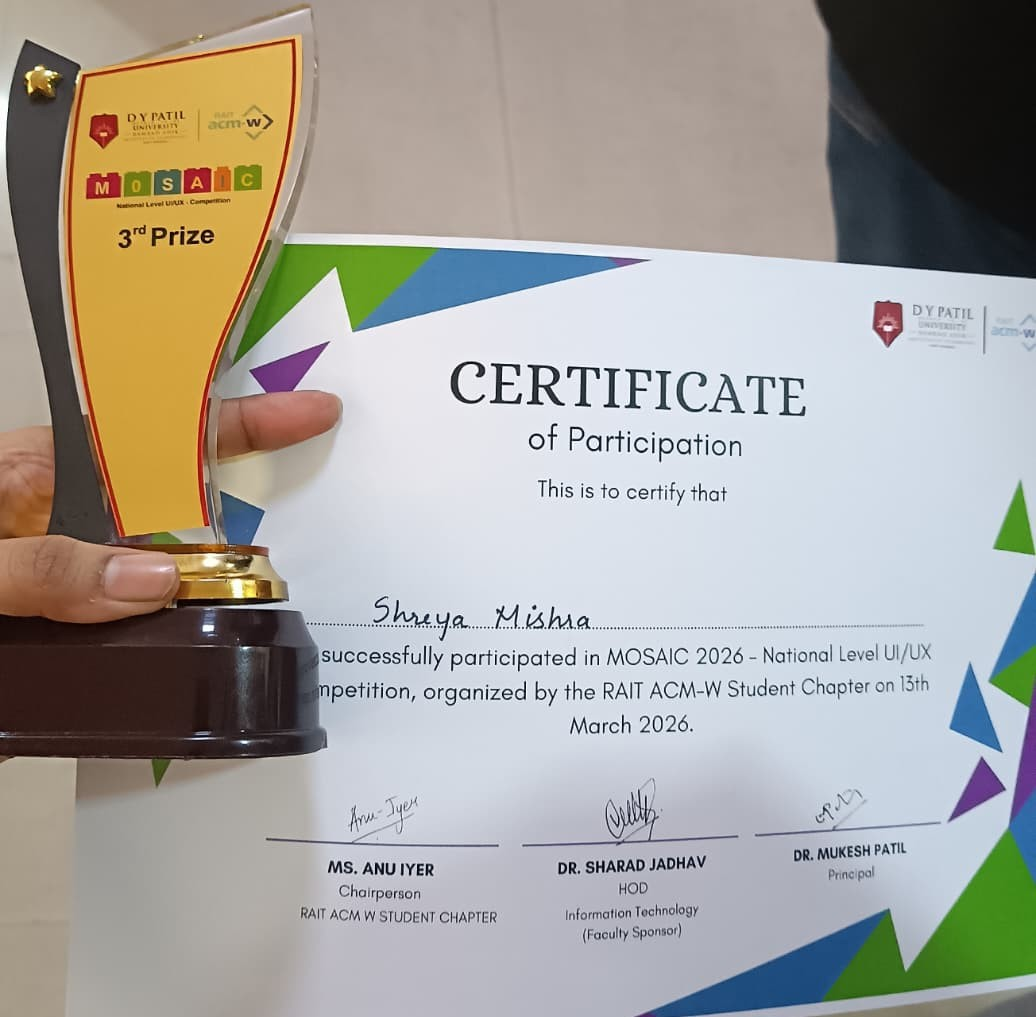
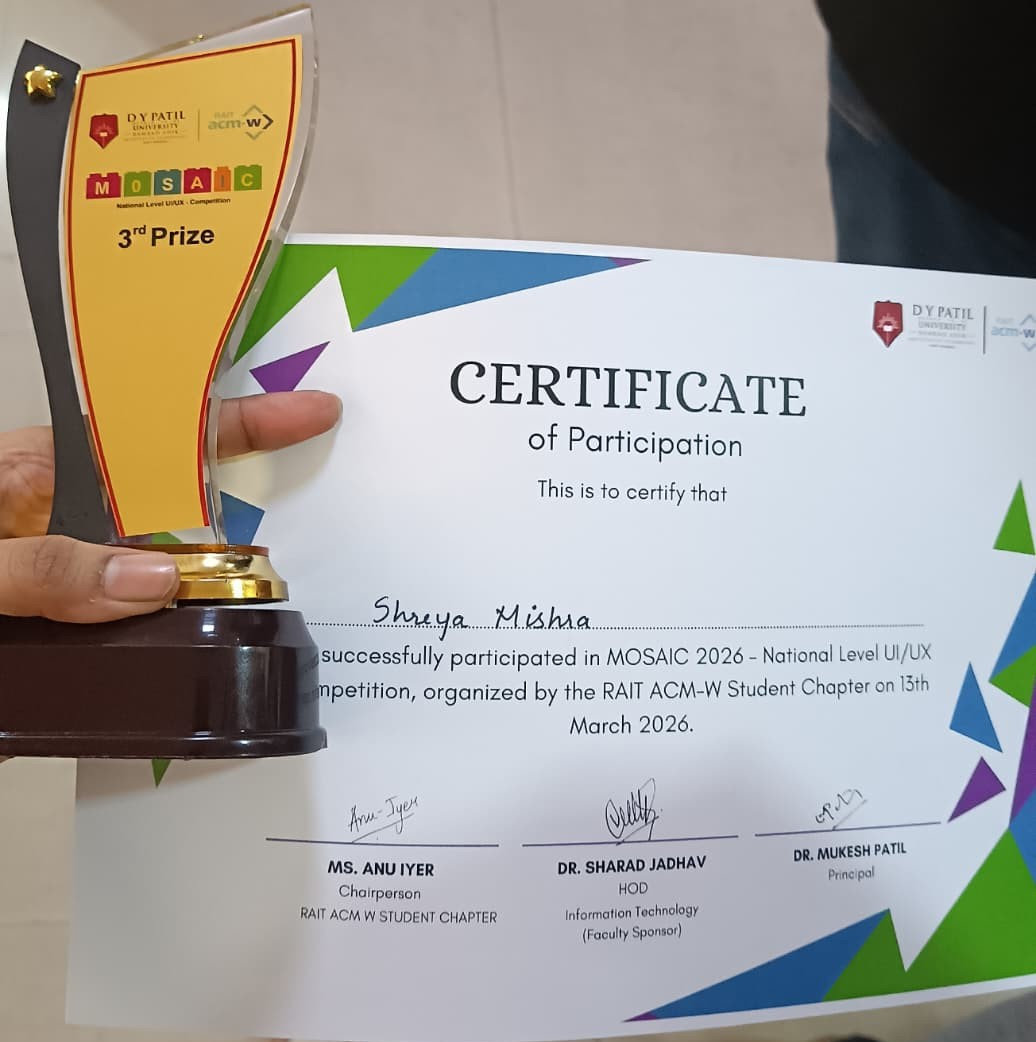
pic new

diff --git a/src/App.jsx b/src/App.jsx
@@ -128,8 +128,14 @@ const EXPERIENCE = [
 ];
 
 const ACHIEVEMENTS = [
-  "2nd Place — CODEISSANCE 2026 (24-Hour Hackathon)",
-  "3rd Place — MOSAIC National Level UI/UX Hackathon, RAIT D.Y. Patil"
+  {
+    title: "2nd Place — CODEISSANCE 2026 (24-Hour Hackathon)",
+    images: ["/3.jpeg", "/4.jpeg"],
+  },
+  {
+    title: "3rd Place — MOSAIC National Level UI/UX Hackathon, RAIT D.Y. Patil",
+    images: ["/1.jpeg", "/2.jpeg"],
+  },
 ];
 
 const LEARNING_TRACKS = [
@@ -183,6 +189,257 @@ function useTypewriter(words, speed = 80, pause = 1800) {
   }, [charIdx, deleting, wordIdx, words, speed, pause]);
 
   return display;
+}
+
+// ─── Achievement Card with Photo Slider ───────────────────────────────────────
+function AchievementCard({ item }) {
+  const [currentIdx, setCurrentIdx] = useState(0);
+  const [touchStartX, setTouchStartX] = useState(null);
+
+  const images = item.images || [];
+
+  const nextImage = (e) => {
+    if (e) e.stopPropagation();
+    if (images.length > 0) {
+      setCurrentIdx((prev) => (prev + 1) % images.length);
+    }
+  };
+
+  const prevImage = (e) => {
+    if (e) e.stopPropagation();
+    if (images.length > 0) {
+      setCurrentIdx((prev) => (prev - 1 + images.length) % images.length);
+    }
+  };
+
+  const handleTouchStart = (e) => {
+    setTouchStartX(e.touches[0].clientX);
+  };
+
+  const handleTouchEnd = (e) => {
+    if (touchStartX === null) return;
+    const touchEndX = e.changedTouches[0].clientX;
+    const diff = touchStartX - touchEndX;
+    if (diff > 35) {
+      nextImage();
+    } else if (diff < -35) {
+      prevImage();
+    }
+    setTouchStartX(null);
+  };
+
+  return (
+    <div
+      className="peach-card"
+      style={{
+        display: "flex",
+        flexDirection: "column",
+        gap: 16,
+        padding: "24px 24px 20px",
+        borderRadius: 20,
+      }}
+    >
+      <div style={{ display: "flex", alignItems: "flex-start", gap: 14 }}>
+        <div
+          style={{
+            width: 8,
+            height: 8,
+            borderRadius: "50%",
+            background: "#ff729f",
+            flexShrink: 0,
+            marginTop: 7,
+            boxShadow: "0 0 10px #ff729f",
+          }}
+        />
+        <p
+          style={{
+            fontSize: 15,
+            color: "#f1f5f9",
+            lineHeight: 1.6,
+            margin: 0,
+            fontWeight: 600,
+            textShadow: "0 1px 6px rgba(0,0,0,0.9)",
+          }}
+        >
+          {item.title}
+        </p>
+      </div>
+
+      {images.length > 0 && (
+        <div
+          onClick={nextImage}
+          onTouchStart={handleTouchStart}
+          onTouchEnd={handleTouchEnd}
+          title="Click to view next photo"
+          style={{
+            position: "relative",
+            width: "100%",
+            height: 240,
+            borderRadius: 14,
+            overflow: "hidden",
+            background: "rgba(3, 13, 27, 0.7)",
+            border: "1px solid rgba(255, 255, 255, 0.16)",
+            cursor: "pointer",
+            userSelect: "none",
+            display: "flex",
+            alignItems: "center",
+            justifyContent: "center",
+          }}
+        >
+          <img
+            key={currentIdx}
+            src={images[currentIdx]}
+            alt={`${item.title} photo ${currentIdx + 1}`}
+            style={{
+              width: "100%",
+              height: "100%",
+              objectFit: "contain",
+              transition: "transform 0.3s ease",
+            }}
+          />
+
+          {images.length > 1 && (
+            <>
+              {/* Prev Button */}
+              <button
+                type="button"
+                onClick={prevImage}
+                title="Previous photo"
+                aria-label="Previous photo"
+                style={{
+                  position: "absolute",
+                  left: 8,
+                  top: "50%",
+                  transform: "translateY(-50%)",
+                  width: 32,
+                  height: 32,
+                  borderRadius: "50%",
+                  background: "rgba(6, 24, 46, 0.8)",
+                  border: "1px solid rgba(255, 255, 255, 0.25)",
+                  color: "#ffffff",
+                  display: "flex",
+                  alignItems: "center",
+                  justifyContent: "center",
+                  fontSize: 16,
+                  cursor: "pointer",
+                  backdropFilter: "blur(6px)",
+                  zIndex: 2,
+                  transition: "all 0.2s",
+                }}
+                onMouseOver={(e) => {
+                  e.currentTarget.style.background = "#ff729f";
+                  e.currentTarget.style.borderColor = "#ff729f";
+                }}
+                onMouseOut={(e) => {
+                  e.currentTarget.style.background = "rgba(6, 24, 46, 0.8)";
+                  e.currentTarget.style.borderColor = "rgba(255, 255, 255, 0.25)";
+                }}
+              >
+                ‹
+              </button>
+
+              {/* Next Button */}
+              <button
+                type="button"
+                onClick={nextImage}
+                title="Next photo"
+                aria-label="Next photo"
+                style={{
+                  position: "absolute",
+                  right: 8,
+                  top: "50%",
+                  transform: "translateY(-50%)",
+                  width: 32,
+                  height: 32,
+                  borderRadius: "50%",
+                  background: "rgba(6, 24, 46, 0.8)",
+                  border: "1px solid rgba(255, 255, 255, 0.25)",
+                  color: "#ffffff",
+                  display: "flex",
+                  alignItems: "center",
+                  justifyContent: "center",
+                  fontSize: 16,
+                  cursor: "pointer",
+                  backdropFilter: "blur(6px)",
+                  zIndex: 2,
+                  transition: "all 0.2s",
+                }}
+                onMouseOver={(e) => {
+                  e.currentTarget.style.background = "#ff729f";
+                  e.currentTarget.style.borderColor = "#ff729f";
+                }}
+                onMouseOut={(e) => {
+                  e.currentTarget.style.background = "rgba(6, 24, 46, 0.8)";
+                  e.currentTarget.style.borderColor = "rgba(255, 255, 255, 0.25)";
+                }}
+              >
+                ›
+              </button>
+
+              {/* Indicator Dots */}
+              <div
+                style={{
+                  position: "absolute",
+                  bottom: 10,
+                  left: "50%",
+                  transform: "translateX(-50%)",
+                  display: "flex",
+                  alignItems: "center",
+                  gap: 6,
+                  padding: "4px 10px",
+                  borderRadius: 99,
+                  background: "rgba(2, 11, 22, 0.75)",
+                  border: "1px solid rgba(255, 255, 255, 0.18)",
+                  backdropFilter: "blur(6px)",
+                  zIndex: 2,
+                }}
+              >
+                {images.map((_, idx) => (
+                  <div
+                    key={idx}
+                    onClick={(e) => {
+                      e.stopPropagation();
+                      setCurrentIdx(idx);
+                    }}
+                    style={{
+                      width: currentIdx === idx ? 16 : 6,
+                      height: 6,
+                      borderRadius: 99,
+                      background: currentIdx === idx ? "#ff729f" : "rgba(255, 255, 255, 0.4)",
+                      boxShadow: currentIdx === idx ? "0 0 8px #ff729f" : "none",
+                      transition: "all 0.25s ease",
+                      cursor: "pointer",
+                    }}
+                  />
+                ))}
+              </div>
+
+              {/* Tag indicator badge */}
+              <div
+                style={{
+                  position: "absolute",
+                  top: 8,
+                  right: 8,
+                  padding: "3px 8px",
+                  borderRadius: 6,
+                  background: "rgba(2, 11, 22, 0.75)",
+                  border: "1px solid rgba(255, 255, 255, 0.15)",
+                  color: "rgba(255, 255, 255, 0.85)",
+                  fontSize: 10.5,
+                  fontWeight: 600,
+                  backdropFilter: "blur(4px)",
+                  zIndex: 2,
+                  pointerEvents: "none",
+                }}
+              >
+                {currentIdx + 1}/{images.length} • Click to switch
+              </div>
+            </>
+          )}
+        </div>
+      )}
+    </div>
+  );
 }
 
 // ─── Contact Grid with Copy ───────────────────────────────────────────────────
@@ -1337,21 +1594,8 @@ export default function Portfolio() {
               Honors & Achievements
             </div>
             <div style={{ display: "grid", gridTemplateColumns: "repeat(auto-fit, minmax(320px, 1fr))", gap: 20 }}>
-              {ACHIEVEMENTS.map((a, i) => (
-                <div
-                  key={i}
-                  className="peach-card"
-                  style={{
-                    display: "flex",
-                    alignItems: "flex-start",
-                    gap: 16,
-                    padding: "22px 26px",
-                    borderRadius: 20,
-                  }}
-                >
-                  <div style={{ width: 8, height: 8, borderRadius: "50%", background: "#ff729f", flexShrink: 0, marginTop: 7, boxShadow: "0 0 10px #ff729f" }} />
-                  <p style={{ fontSize: 14.5, color: "#f1f5f9", lineHeight: 1.75, margin: 0, fontWeight: 500, textShadow: "0 1px 6px rgba(0,0,0,0.9)" }}>{a}</p>
-                </div>
+              {ACHIEVEMENTS.map((item, i) => (
+                <AchievementCard key={i} item={item} />
               ))}
             </div>
           </div>
